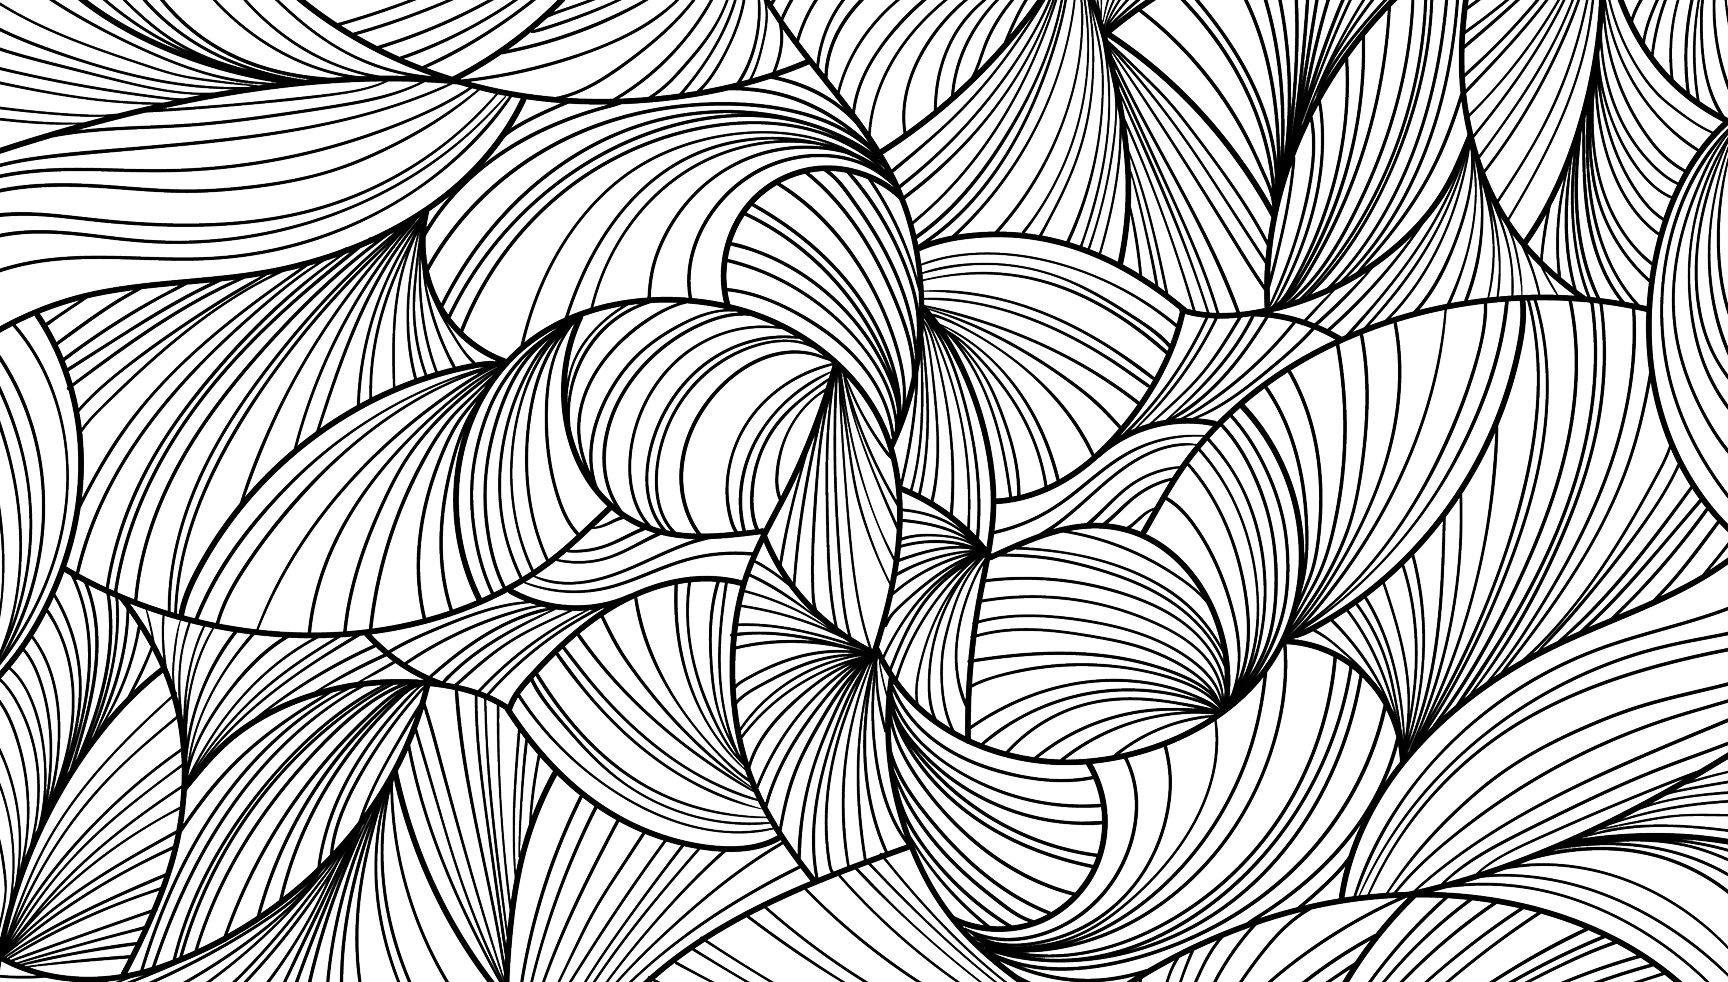
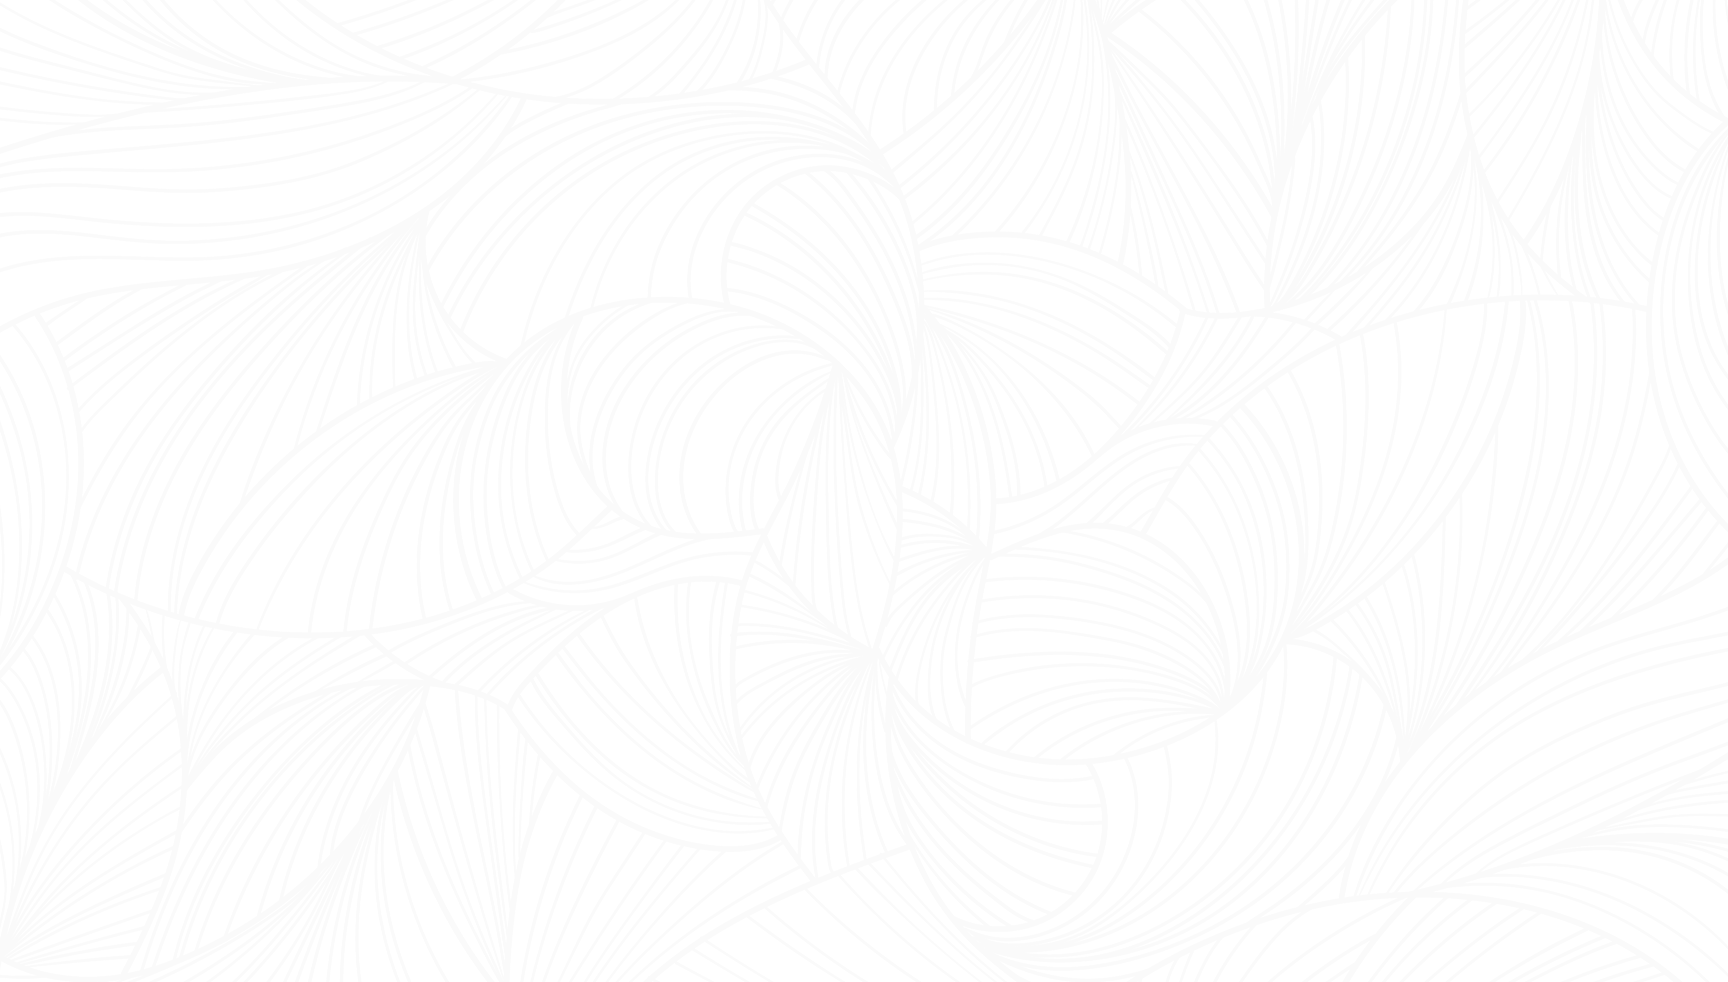
update portfolio

diff --git a/src/pages/projects.tsx b/src/pages/projects.tsx
@@ -3,25 +3,52 @@
 const Projects = () => {
   return (
     <div>
-      <h1 className="text-2xl font-bold special-gothic-expanded-one-regular pt-9 ">
+      <h1 className="text-2xl flex justify-center font-bold special-gothic-expanded-one-regular pt-9 ">
         My Projects
       </h1>
       <main>
         <div className=" py-9 grid grid-cols-1 md:grid-cols-2 lg:grid-cols-3 gap-4">
-          <div className="border items-center flex flex-col rounded h-72 ">
-            <h2 className="text-lg font-semibold">Project 1</h2>
-            <div className="border w-[80%] h-[40%] rounded m-2"></div>
-            <p className="text-gray-600">Description of Project 1</p>
+          <div className="bg-gray-900 border items-center flex flex-col rounded h-72 relative">
+            <h2 className="text-white text-lg font-semibold">Project 1</h2>
+            <a className="border w-[80%] h-[40%] rounded m-2" href="https://my-portfolio-efzmu2qfu-james-idris-projects.vercel.app">
+              <img src="src/assets/moove.PNG" className="object-cover w-full h-full rounded" />
+            </a>
+            <p className="text-gray-300 montserrat-regular">Description of Project 1</p>
           </div>
-          <div className="border items-center flex flex-col rounded h-72 ">
-            <h2 className="text-lg font-semibold">Project 2</h2>
-            <div className="border w-[80%] h-[40%] rounded m-2"></div>
-            <p className="text-gray-600">Description of Project 2</p>
+          <div className="bg-gray-900 border items-center flex flex-col rounded h-72 relative">
+            <h2 className="text-white text-lg font-semibold">Project 2</h2>
+            <a className="border w-[80%] h-[40%] rounded m-2" href="https://piggy-clone96james.vercel.app/">
+              <img src="src/assets/piggy.PNG" className="object-cover w-full h-full rounded" />
+            </a>
+            <p className="text-gray-300 montserrat-regular">Description of Project 1</p>
           </div>
-          <div className="border items-center flex flex-col rounded h-72 ">
-            <h2 className="text-lg font-semibold">Project 3</h2>
-            <div className="border w-[80%] h-[40%] rounded m-2"></div>
-            <p className="text-gray-600">Description of Project 3</p>
+          <div className="bg-gray-900 border items-center flex flex-col rounded h-72 relative">
+            <h2 className="text-white text-lg font-semibold">Project 3</h2>
+            <a className="border w-[80%] h-[40%] rounded m-2" href="https://my-portfolio-efzmu2qfu-james-idris-projects.vercel.app">
+              <img src="src/assets/portfolio-img.PNG" className="object-cover w-full h-full rounded" />
+            </a>
+            <p className="text-gray-300 montserrat-regular">Description of Project 1</p>
+          </div>
+          <div className="bg-gray-900 border items-center flex flex-col rounded h-72 relative">
+            <h2 className="text-white text-lg font-semibold">Project 4</h2>
+            <a className="border w-[80%] h-[40%] rounded m-2" href="https://my-portfolio-efzmu2qfu-james-idris-projects.vercel.app">
+              <img src="src/assets/cartimg.PNG" className="object-cover w-full h-full rounded" />
+            </a>
+            <p className="text-gray-300 montserrat-regular">Description of Project 1</p>
+          </div>
+          <div className="bg-gray-900 border items-center flex flex-col rounded h-72 relative">
+            <h2 className="text-white text-lg font-semibold">Project 5</h2>
+            <a className="border w-[80%] h-[40%] rounded m-2" href="https://piggy-clone96james.vercel.app/">
+              <img src="src/assets/meta.PNG" className="object-cover w-full h-full rounded" />
+            </a>
+            <p className="text-gray-300 montserrat-regular">Description of Project 1</p>
+          </div>
+          <div className="bg-gray-900 border items-center flex flex-col rounded h-72 relative">
+            <h2 className="text-white text-lg font-semibold">Project 6</h2>
+            <a className="border w-[80%] h-[40%] rounded m-2" href="https://my-portfolio-efzmu2qfu-james-idris-projects.vercel.app">
+              <img src="src/assets/portfolio-img.PNG" className="object-cover w-full h-full rounded" />
+            </a>
+            <p className="text-gray-300 montserrat-regular">Description of Project 1</p>
           </div>
         </div>
       </main>

diff --git a/src/pages/Home.tsx b/src/pages/Home.tsx
@@ -7,31 +7,38 @@ import { FaReact } from "react-icons/fa";
 import { SiTypescript } from "react-icons/si";
 import { DiMongodb } from "react-icons/di";
 
-
-
-
 // import React from 'react';
 
 const Home = () => {
   return (
-    <div className="h-[calc(80vh-4rem)] text-center items-center flex flex-col justify-center-safe ">
-        <h4 className="great-vibes-regular text-9xl">James Idris</h4>
-        <hr className="border-gray-300 my-2 w-2xs" />
-        <p className="montserrat-regular text-md text-gray-600">Full Stack Software Developer</p>
-        <hr className="border-gray-300 my-2 w-2xs" />
-        <div className="flex flex-wrap justify-center gap-4 mt-4">
-          <DiMongodb className="text-4xl text-green-600" />
-          <SiTypescript className="text-4xl text-blue-600" />
-          <FaReact className="text-4xl text-blue-600" />
-          <RiJavascriptFill className="text-4xl text-yellow-500" />
-          <p className="border-2 text border-gray-300 rounded-md p-3 special-gothic-expanded-one-regular text-center">Express.js</p>
-          <FaCss3Alt className="text-4xl text-blue-600" />
-          <FaHtml5 className="text-4xl text-orange-500" />
-          <FaNodeJs className="text-4xl text-green-500" />
-          <RiTailwindCssFill className="text-4xl text-blue-500" />
-        </div>
+    <div
+      className="h-[calc(80vh-4rem)] text-center items-center flex flex-col justify-center"
+      style={{
+        
+        
+      }}
+    >
+      <h4 className="great-vibes-regular text-9xl">James Idris</h4>
+      <hr className="border-gray-300 my-2 w-2xs" />
+      <p className="montserrat-regular text-md text-gray-600">
+        Full Stack Software Developer
+      </p>
+      <hr className="border-gray-300 my-2 w-2xs" />
+      <div className="flex flex-wrap justify-center gap-4 mt-4">
+        <DiMongodb className="text-4xl text-green-600" />
+        <SiTypescript className="text-4xl text-blue-600" />
+        <FaReact className="text-4xl text-blue-600" />
+        <RiJavascriptFill className="text-4xl text-yellow-500" />
+        <p className="border-2 text border-gray-300 rounded-md p-3 special-gothic-expanded-one-regular text-center">
+          Express.js
+        </p>
+        <FaCss3Alt className="text-4xl text-blue-600" />
+        <FaHtml5 className="text-4xl text-orange-500" />
+        <FaNodeJs className="text-4xl text-green-500" />
+        <RiTailwindCssFill className="text-4xl text-blue-500" />
+      </div>
     </div>
-  )
-}
+  );
+};
 
-export default Home
+export default Home;

diff --git a/src/pages/About.tsx b/src/pages/About.tsx
@@ -1,23 +1,34 @@
 // import React from 'react'
+import myImg from "../assets/myImg.png";
 
 const About = () => {
   return (
     <div>
-        <h1 className="h-[100%] special-gothic-expanded-one-regular text-2xl my-9">About Me</h1>
-        <div className="flex justify-center gap-12 items-center px-10">
-            <p className="montserrat-regular text-md text-gray-600 w-1/2">Hi, I'm James Idris, a Full Stack Software Developer. 
-                 I have a passion for creating dynamic and responsive web applications. I enjoy working with the latest technologies and frameworks to deliver high-quality software solutions.
-                 <br />
-                 In my free time, I love to explore new technologies and work on personal projects that challenge my skills. in addition to coding,
-                 I also enjoy reading tech blogs, contributing to open source projects,
-                and participating in online coding communities. 
-            </p>
-            <div className="w-[30%] h-75 border-2 rounded-[100%]">
-                <img src="src/assets/myImg.png" alt="Profile" className=" size-full rounded-full " />
-            </div>
+      <h1 className="h-[100%] flex justify-center special-gothic-expanded-one-regular text-2xl my-9">
+        About Me
+      </h1>
+      <div className="flex justify-center gap-12 items-center px-10">
+        <p className="montserrat-regular text-md text-gray-600 w-1/2">
+          Hi, I'm James Idris, a Full Stack Software Developer. I have a passion
+          for creating dynamic and responsive web applications. I enjoy working
+          with the latest technologies and frameworks to deliver high-quality
+          software solutions.
+          <br />
+          In my free time, I love to explore new technologies and work on
+          personal projects that challenge my skills. in addition to coding, I
+          also enjoy reading tech blogs, contributing to open source projects,
+          and participating in online coding communities.
+        </p>
+        <div className="w-[30%] h-75 border-2 rounded-[100%] bg-white">
+          <img
+            src={myImg}
+            alt="Profile"
+            className="size-full rounded-full bg-white"
+          />
         </div>
+      </div>
     </div>
-  )
-}
+  );
+};
 
-export default About
+export default About;

diff --git a/src/App.tsx b/src/App.tsx
@@ -1,28 +1,33 @@
 // import React from 'react'
-import Footer from './Components/Footer'
-import Header from './Components/Header'
-import Home from './pages/Home'
-import { BrowserRouter,Route,Routes } from 'react-router-dom'
-import About from './pages/About'
-import Projects from './pages/projects'
+import Footer from "./Components/Footer";
+import Header from "./Components/Header";
+import Home from "./pages/Home";
+import { BrowserRouter, Route, Routes } from "react-router-dom";
+import About from "./pages/About";
+import Projects from "./pages/projects";
+import bgImage from "./assets/9374655 1.png";
+import Contacts from "./pages/Contacts";
 
 const App = () => {
   return (
-    <div className='max-w-[1028px] mx-auto relative'>
-      
+    <div
+      className="max-w-[1028px] mx-auto relative"
+      style={{ backgroundImage: `url(${bgImage})` }}
+    >
       <div />
       <BrowserRouter>
-      <Header />
-        <Routes >
-          <Route path='/' element={<Home />} />
-          <Route path='/home' element={<Home />} />
-          <Route path='/about' element={<About />} />
-          <Route path='/projects' element={<Projects />} />
+        <Header />
+        <Routes>
+          <Route path="/" element={<Home />} />
+          <Route path="/home" element={<Home />} />
+          <Route path="/about" element={<About />} />
+          <Route path="/projects" element={<Projects />} />
+          <Route path="/contact.me" element={<Contacts />} />
         </Routes>
         <Footer />
       </BrowserRouter>
     </div>
-  )
-}
+  );
+};
 
-export default App
+export default App;

diff --git a/src/pages/Contacts.tsx b/src/pages/Contacts.tsx
@@ -1,0 +1,47 @@
+import myImg from "../assets/myImg.png";
+
+interface ContactsProps {
+  imgSrc?: string;
+}
+
+const Contacts = ({ imgSrc = myImg }: ContactsProps) => {
+  return (
+    <div>
+      <h1 className="text-2xl font-bold special-gothic-expanded-one-regular pt-9 flex justify-center">
+        Contact Me
+      </h1>
+    <div className="flex items-center justify-center place-content-center ">
+      <main>
+        <h1 className="text-3xl font-bold mb-0 montserrat underline">Let's Connect!</h1>
+        <i className="">I'm excited to discuss about your project.</i>
+        <div className="flex flex-col mt-2 mb-10">
+          <label htmlFor="email" className="mt-4">
+            Email:
+          </label>
+          <input
+            type="email"
+            id="email" src="jameseversmile@gmail.com"
+            className="border border-gray-300 p-2 rounded"
+            placeholder="Your email"
+          />
+          <label htmlFor="message" className="mt-4 ">
+            Message:
+          </label>
+          <textarea
+            id="message"
+            className="border border-gray-300 p-2 rounded"
+            placeholder="Your message"
+          />
+          <button className="mt-4 bg-blue-500 text-white p-2 rounded">
+            Send Message
+          </button>
+        </div >
+        <b>Contact me at: devjamesidris@example.com</b>
+      </main>
+      <img src={imgSrc} alt="" />
+    </div>
+    </div>
+  );
+};
+
+export default Contacts;

diff --git a/src/Components/Header.tsx b/src/Components/Header.tsx
@@ -5,17 +5,18 @@ import { Link } from "react-router-dom"
 function Header() {
 
   return (
-    <div className="max-w-[1028px] mx-auto bg-white py-1 px-20 text-1xl shadow-[0_2px_1px_rgba(0,0,0,0.1)]">
+
+    <div className="bg- max-w-[1028px] mx-auto bg-white py-1 px-20 text-1xl shadow-[0_2px_1px_rgba(0,0,0,0.1)]">
        <header className='flex justify-between'>
           <nav  className="flex items-center gap-4">
-            <img src="src/assets/myImg.png" alt="Logo" className="w-12 h-12" />
-            <h3>James Idris</h3>
+            <Link className="flex items-center gap-4" to="/about"><img src="src/assets/myImg.png" alt="Logo" className="w-12 h-12" />
+            <h3>James Idris</h3></Link>
           </nav>
         <nav  className="flex items-center gap-4">
           <Link to="/home"><h3 className="hover:text-blue-900">Home</h3></Link>
           <Link to="/about"><h3 className="hover:text-blue-900">About</h3></Link>
           <Link to="/projects"><h3 className="hover:text-blue-900">Projects</h3></Link>
-          <Link to="/contact"><h3 className="hover:text-blue-900">Contact</h3></Link>
+          <Link to="/contact.me"><h3 className="hover:text-blue-900">Contact</h3></Link>
         </nav>
        </header>
     </div>
